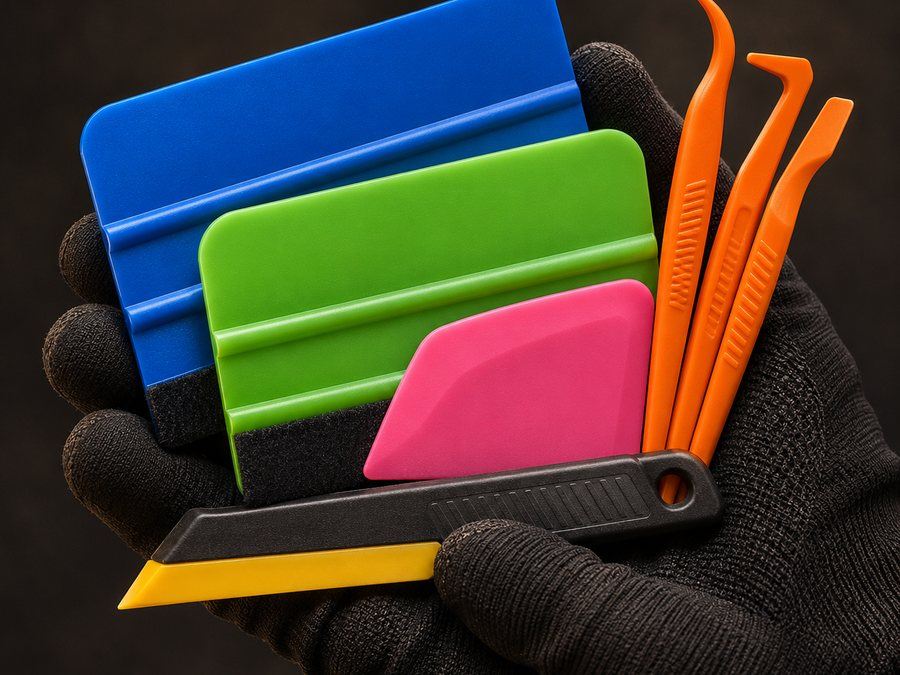
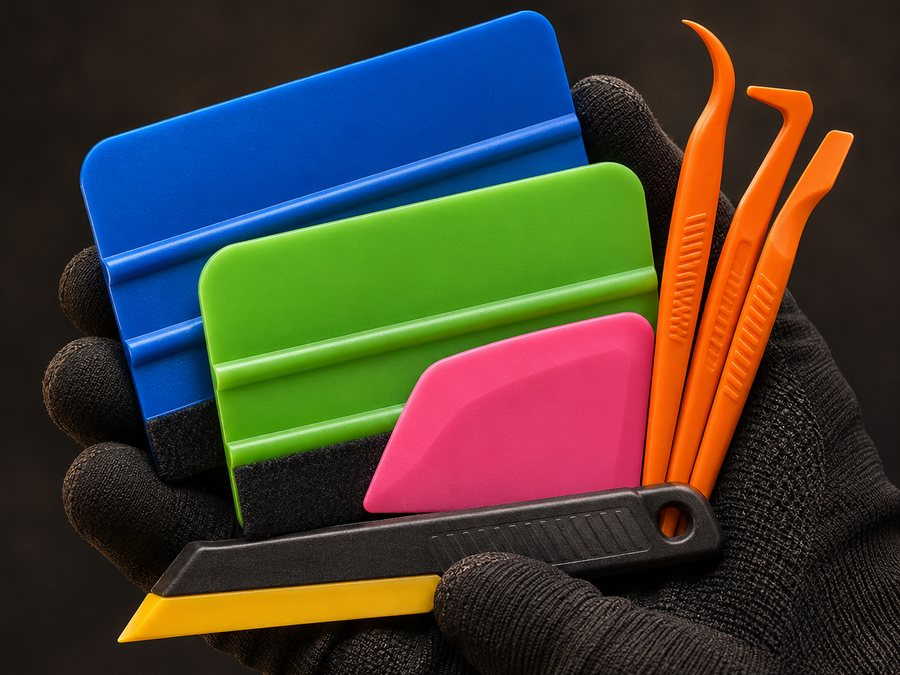
Add files via upload

diff --git a/index.html b/index.html
@@ -752,19 +752,19 @@ footer{padding:56px 0 40px; background:var(--grafite);}
       <li><a class="cat-card" href="#peliculas">
         <span class="cat-titulo">Películas automotivas</span>
         <span class="cat-info">Cinco linhas, de 5% a 75% de VLT</span><span class="cat-desde">a partir de <strong data-desde="peliculas">R$&nbsp;400,00</strong></span>
-        <span class="cat-img"><img src="assets/img/cat_peliculas.jpg" alt="" width="900" height="675" loading="lazy"></span></a></li>
+        <span class="cat-img"><img src="assets/img/cat_peliculas.jpg?v=2" alt="" width="900" height="675" loading="lazy"></span></a></li>
       <li><a class="cat-card" href="#ppf">
         <span class="cat-titulo">PPF</span>
         <span class="cat-info">Bobinas de 1,52 × 15 m</span><span class="cat-desde">a partir de <strong data-desde="ppf">R$&nbsp;3.950,00</strong></span>
-        <span class="cat-img"><img src="assets/img/cat_ppf.jpg" alt="" width="900" height="675" loading="lazy"></span></a></li>
+        <span class="cat-img"><img src="assets/img/cat_ppf.jpg?v=2" alt="" width="900" height="675" loading="lazy"></span></a></li>
       <li><a class="cat-card" href="#especial">
         <span class="cat-titulo">Películas coloridas</span>
         <span class="cat-info">Elite Camaleão, 0,50 × 5 m</span><span class="cat-desde">a partir de <strong data-desde="colorido">R$&nbsp;1.150,00</strong></span>
-        <span class="cat-img"><img src="assets/img/cat_coloridas.jpg" alt="" width="900" height="675" loading="lazy"></span></a></li>
+        <span class="cat-img"><img src="assets/img/cat_coloridas.jpg?v=2" alt="" width="900" height="675" loading="lazy"></span></a></li>
       <li><a class="cat-card" href="#ferramentas">
         <span class="cat-titulo">Ferramentas profissionais</span>
         <span class="cat-info">46 itens para aplicação e corte</span><span class="cat-desde">a partir de <strong data-desde="ferramentas">R$&nbsp;9,50</strong></span>
-        <span class="cat-img"><img src="assets/img/cat_ferramentas.jpg" alt="" width="900" height="675" loading="lazy"></span></a></li>
+        <span class="cat-img"><img src="assets/img/cat_ferramentas.jpg?v=2" alt="" width="900" height="675" loading="lazy"></span></a></li>
     </ul>
   </div>
 </section>

diff --git a/lib/mercadopago.js b/lib/mercadopago.js
@@ -36,7 +36,7 @@ export async function mercadoPago(caminho, { method = 'GET', body, idempotencia 
 }
 
 // Endereço público do site (usado para o cliente voltar depois de pagar).
-// Na Vercel, cadastre SITE_URL, por exemplo: https://catalogo.genesisprotection.com.br
+// Na Vercel, cadastre SITE_URL, por exemplo: https://lojaoficial.genesisprotection.com.br
 export function enderecoDoSite(req) {
   const doEnv = (process.env.SITE_URL || '').trim().replace(/\/+$/, '');
   if (doEnv) return doEnv;
